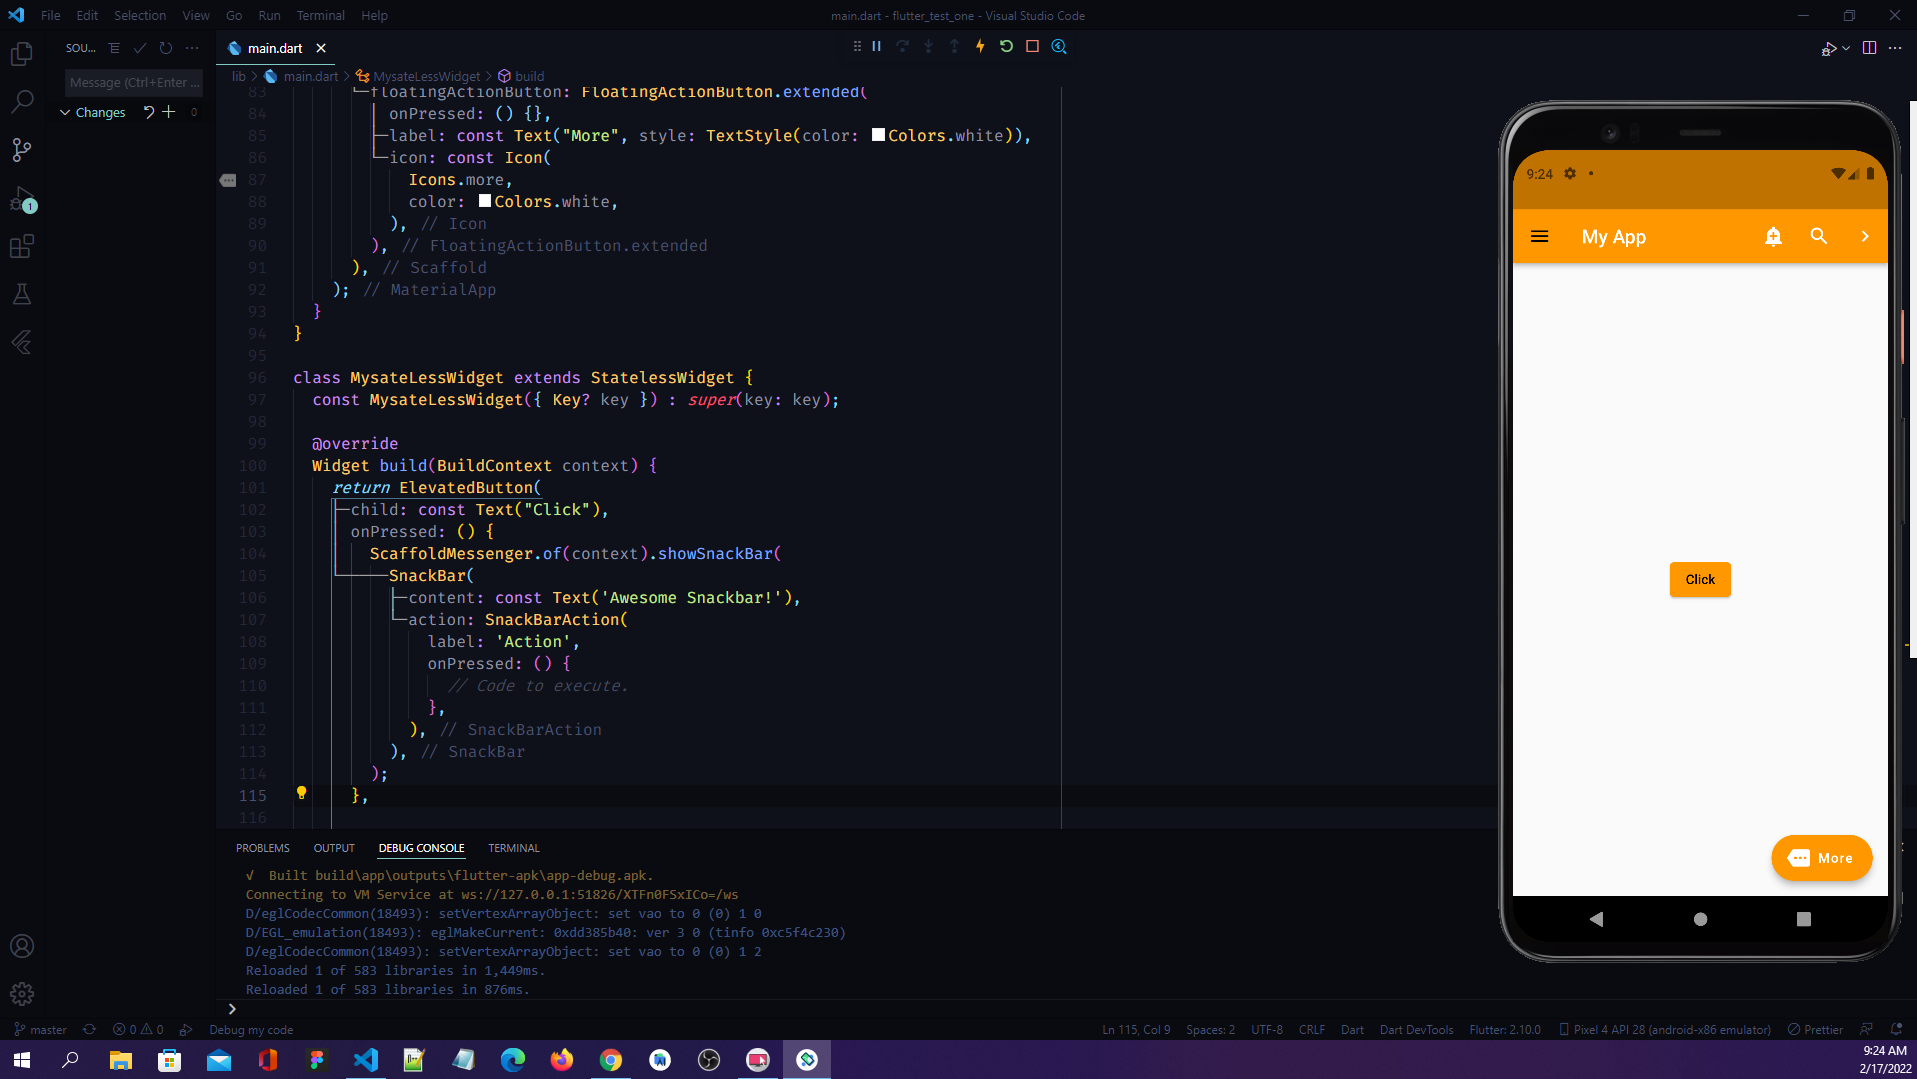
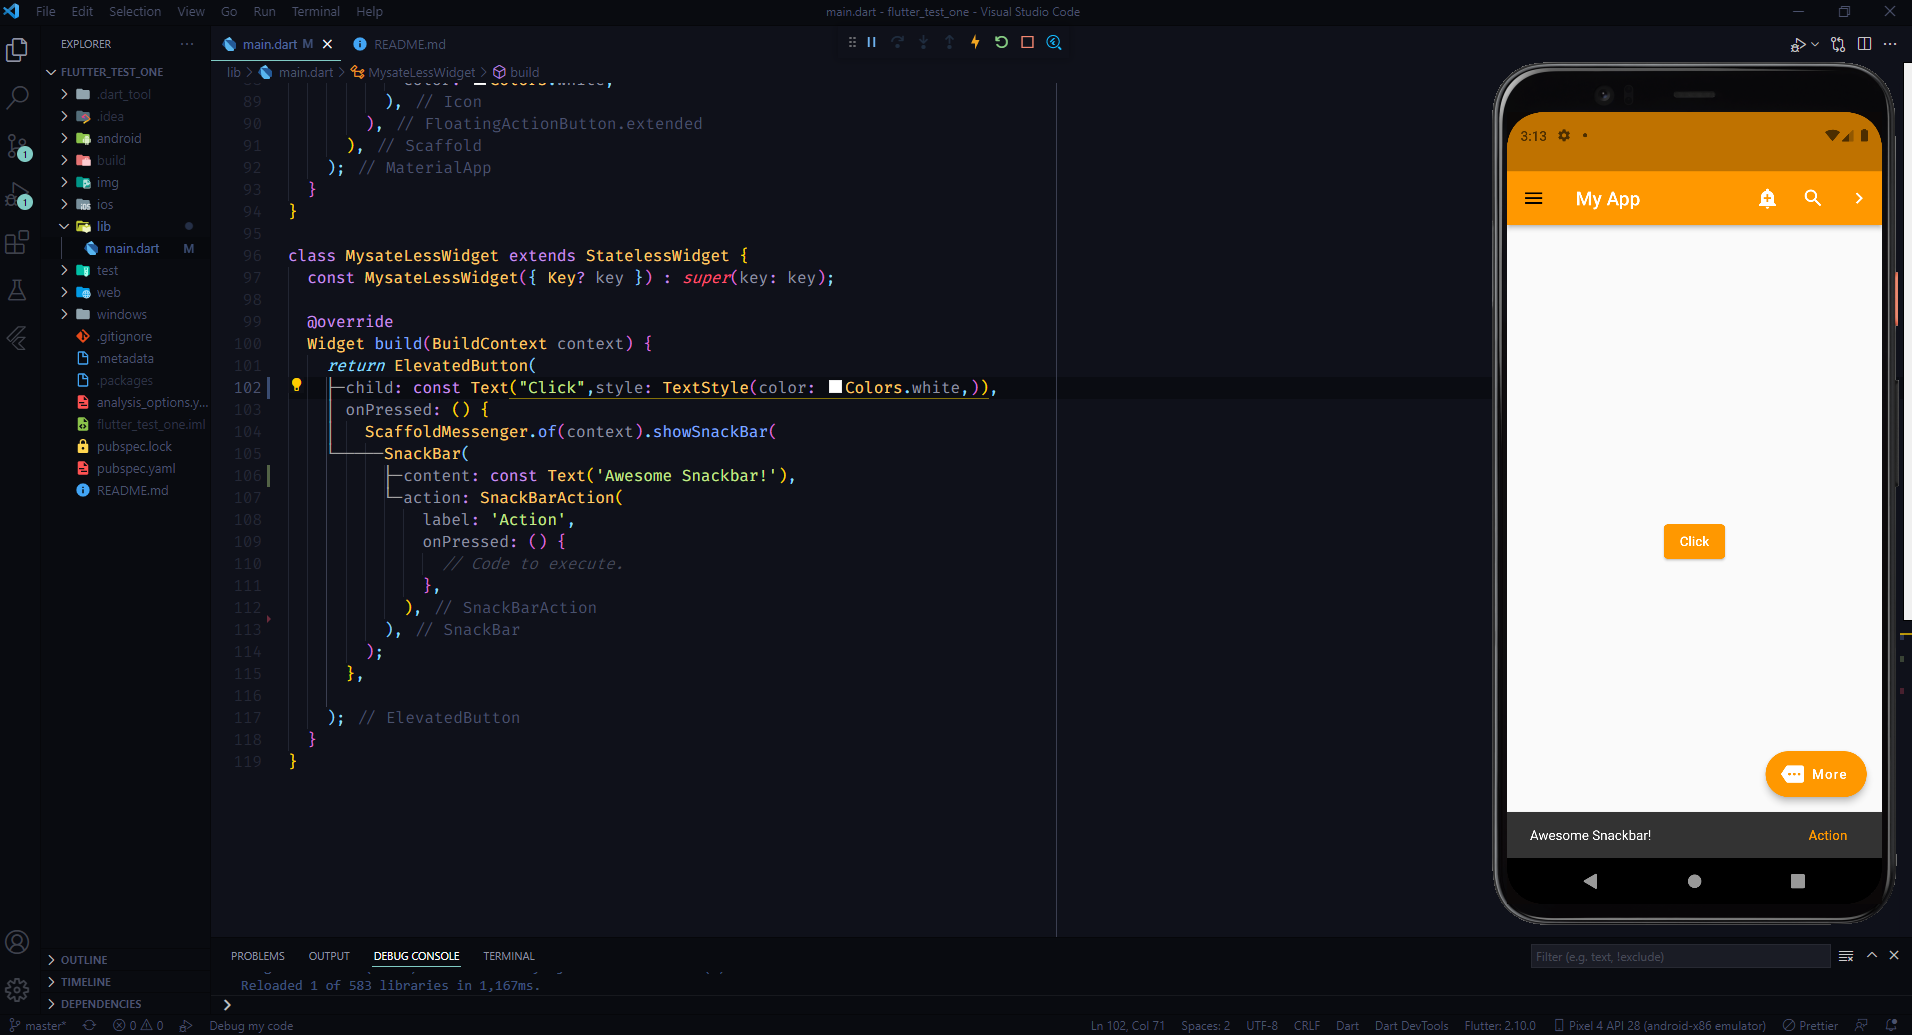
test17.4

diff --git a/lib/main.dart b/lib/main.dart
@@ -99,25 +99,16 @@ class MysateLessWidget extends StatelessWidget {
   @override
   Widget build(BuildContext context) {
     return ElevatedButton(
-      child: const Text("Click"),
+      child: const Text("Click",style: TextStyle(color: Colors.white,)),
       onPressed: () {
         ScaffoldMessenger.of(context).showSnackBar(
           SnackBar(
+            content: const Text('Awesome Snackbar!'),
             action: SnackBarAction(
               label: 'Action',
               onPressed: () {
                 // Code to execute.
               },
-            ),
-            content: const Text('Awesome SnackBar!'),
-            duration: const Duration(milliseconds: 1500),
-            width: 280.0, // Width of the SnackBar.
-            padding: const EdgeInsets.symmetric(
-              horizontal: 8.0, // Inner padding for SnackBar content.
-            ),
-            behavior: SnackBarBehavior.floating,
-            shape: RoundedRectangleBorder(
-              borderRadius: BorderRadius.circular(10.0),
             ),
           ),
         );
